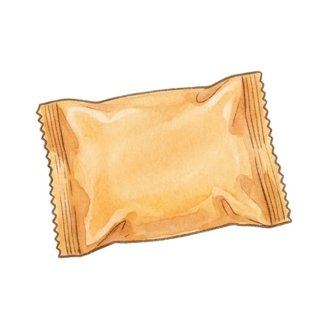
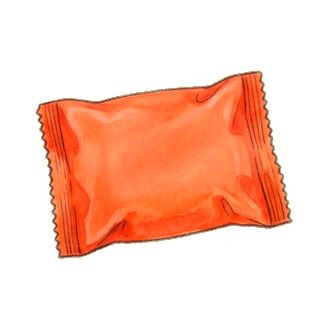
End-of-day word review (day2/review.js): from Day 3, ~5 words (today, ~3 and ~7 days ago, last misses), hear->pick picture / picture->pick word; foundDay+again kept in save; snack bag red

diff --git a/day2/review.js b/day2/review.js
@@ -1,0 +1,74 @@
+// ---------- end-of-day word review (owner 11/06: 「친구는 하루 2명 그대로, 하루 끝에 짧은 복습 게임」) ----------
+// From Day 3 on, after the night notebook and before the day-end card: about 5 words, one per screen, no text —
+// today's new words, a word from about 3 days ago and about 7 days ago, and the words missed in the last review (RV_AGAIN).
+// Two kinds, mixed: 🔊 hear the word → tap its picture (of 4) / see the picture → tap the word (of 4).
+// Right = chime, next. Wrong = buzz, the right one lights up and is heard, the word comes back next time.
+// The day a word was first found is kept in the save (foundDay); words from older saves count as found on Day 2.
+const FDAY={};let RV_AGAIN=[];
+{const _a=FOUND.add.bind(FOUND);FOUND.add=function(k){if(!(k in FDAY))FDAY[k]=DAY;return _a(k)}}
+for(const k of FOUND)if(!(k in FDAY))FDAY[k]=DAY;
+function rvStore(){try{const s=JSON.parse(localStorage.getItem('haru_save')||'null');if(!s)return;const fd={};for(const k of FOUND)if(k in FDAY)fd[k]=FDAY[k];
+ s.foundDay=fd;s.again=RV_AGAIN.slice(0,8);localStorage.setItem('haru_save',JSON.stringify(s))}catch(e){}}
+{const _s=saveDay;saveDay=function(){const r=_s.apply(this,arguments);rvStore();return r}}
+if(typeof saveMid==='function'){const _m=saveMid;saveMid=function(){const r=_m.apply(this,arguments);rvStore();return r}}
+{const _c=contGame;contGame=function(s){const fd=(s&&s.foundDay)||{};for(const k in FDAY)delete FDAY[k];for(const k of FOUND)FDAY[k]=fd[k]!=null?fd[k]:2;
+ RV_AGAIN=((s&&s.again)||[]).slice();return _c.apply(this,arguments)}}
+// people and words a picture can't show clearly stay out
+const RV_SKIP=new Set(['mom','dad','friend','teacher','grandma','name','line','shadow','wall']);
+const rvShuf=a=>{a=a.slice();for(let i=a.length-1;i>0;i--){const j=Math.floor(Math.random()*(i+1));[a[i],a[j]]=[a[j],a[i]]}return a};
+function rvOk(k){return!!(k&&!RV_SKIP.has(k)&&!Object.values(WORDKEY).includes(k)&&!D2IDS.includes(k)&&LANGS[LANG].words[k]&&cardOf(k))}
+function rvWords(){const D=DAY,ks=[...FOUND].filter(rvOk),out=[];const add=k=>{if(k&&rvOk(k)&&!out.includes(k)&&out.length<5)out.push(k)};
+ RV_AGAIN.slice(0,2).forEach(add);
+ const today=rvShuf(ks.filter(k=>FDAY[k]===D));add(today[0]);add(today[1]);
+ for(const ago of [3,7]){const c=ks.filter(k=>FDAY[k]<D&&!out.includes(k));if(!c.length)continue;const d=k=>Math.abs(FDAY[k]-(D-ago)),best=Math.min(...c.map(d));add(rvShuf(c.filter(k=>d(k)===best))[0])}
+ for(const k of today.concat(rvShuf([...TODAY]),ks.slice().sort((a,b)=>(FDAY[b]||0)-(FDAY[a]||0))))add(k);
+ return rvShuf(out)}
+// 3 others: learned words first, never a look-alike, never the same picture or the same written word
+function rvOthers(k){const seen=new Set([cardOf(k)]),sw=new Set([wordOf(k)]),out=[];
+ const ok=q=>q!==k&&rvOk(q)&&!(typeof lookalike==='function'&&lookalike(q,k))&&!seen.has(cardOf(q))&&!sw.has(wordOf(q));
+ for(const q of rvShuf([...FOUND]).concat(rvShuf([...CARDS_HAVE])))if(out.length<3&&ok(q)){out.push(q);seen.add(cardOf(q));sw.add(wordOf(q))}
+ return out}
+{const st=document.createElement('style');st.textContent=`
+#mcard.rvcard{padding:14px 14px 18px}
+.rvtop{display:flex;gap:6px;justify-content:center;margin:0 0 12px}.rvtop i{width:34px;height:10px;border-radius:99px;background:#e8dcc4}.rvtop i.d{background:var(--mint)}.rvtop i.x{background:#e7a08a}
+.rvq{display:flex;justify-content:center;align-items:center;min-height:64px;margin:0 0 12px}
+.rvq .spk{font-size:34px;padding:10px 26px;border-color:var(--mint);box-shadow:0 4px 0 #3f9a7c}
+.rvq img{width:min(200px,52vw);border-radius:18px;border:4px solid var(--line);display:block}
+.rvg{display:grid;grid-template-columns:1fr 1fr;gap:12px;max-width:340px;margin:0 auto}
+.rvg button{font:inherit;background:#fff;border:4px solid var(--line);border-radius:18px;box-shadow:0 5px 0 var(--line);padding:6px;cursor:pointer;color:var(--ink)}
+.rvg button img{width:100%;display:block;border-radius:12px;aspect-ratio:1;object-fit:cover}
+.rvg.w button{font-weight:800;font-size:21px;padding:14px 6px;min-height:64px;word-break:keep-all;overflow-wrap:anywhere}
+.rvg button.ok{border-color:var(--mint);background:#eafff6;box-shadow:0 5px 0 #3f9a7c}
+.rvg button.no{border-color:#e7a08a;animation:shake .4s}
+.rvg button.dim{opacity:.35}
+.rvend{font-size:30px;letter-spacing:2px;white-space:nowrap;margin:6px 0 4px}.rvend b{font-size:22px;letter-spacing:0;color:var(--ink);vertical-align:middle;margin-left:8px}
+.rvmiss{display:flex;gap:8px;justify-content:center;flex-wrap:wrap;margin:8px 0 0}.rvmiss button{background:#fff;border:3px solid var(--line);border-radius:14px;padding:4px;width:72px;cursor:pointer;font:inherit;font-weight:800;font-size:13px;color:var(--ink)}.rvmiss img{width:100%;border-radius:9px;display:block}`;
+ document.head.appendChild(st)}
+// the review itself; done() always runs (a missing picture drops that word, an error ends the review)
+function wordReview(done){let fin=false;const end=()=>{if(fin)return;fin=true;const c=document.getElementById('mcard');c.classList.remove('rvcard');document.getElementById('modal').classList.remove('on');busy=false;done()};
+ try{const ws=rvWords();if(ws.length<2){end();return}
+  const m=document.getElementById('modal'),c=document.getElementById('mcard');busy=true;closeBubble&&closeBubble();setGoal('');
+  const res=[],flip=Math.random()<.5;let i=0;
+  const bar=()=>`<div class="rvtop">${ws.map((_,j)=>`<i class="${j<res.length?(res[j]?'d':'x'):''}"></i>`).join('')}</div>`;
+  const next=()=>{if(i>=ws.length){finish();return}const k=ws[i],hear=(i%2===0)!==flip,os=rvOthers(k);if(os.length<2){i++;res.push(true);next();return}
+   const items=rvShuf([k].concat(os));let lock=false;
+   c.className='card rvcard';c.innerHTML=`<div id="rv" data-k="${k}">${bar()}<div class="rvq">${hear?'<button class="spk" id="rvsnd">🔊</button>':`<img src="${cardOf(k)}" alt="">`}</div>
+    <div class="rvg${hear?'':' w'}">${items.map(q=>`<button data-r="${q}">${hear?`<img src="${cardOf(q)}" alt="">`:wordOf(q)}</button>`).join('')}</div></div>`;
+   m.classList.add('on');
+   const qi=c.querySelector('.rvq img');if(qi)qi.onerror=()=>{if(c.querySelector('#rv')&&c.querySelector('#rv').dataset.k===k&&!lock){lock=true;i++;next()}};
+   c.querySelectorAll('.rvg img').forEach(im=>im.onerror=()=>{const b=im.closest('button');if(b.dataset.r===k){if(!lock){lock=true;i++;next()}}else b.remove()});
+   if(hear){setTimeout(()=>speak(k),350);c.querySelector('#rvsnd').onclick=()=>speak(k)}
+   c.querySelectorAll('.rvg button').forEach(b=>b.onclick=()=>{if(lock)return;lock=true;const ok=b.dataset.r===k,rb=c.querySelector(`.rvg [data-r="${k}"]`);
+    c.querySelectorAll('.rvg button').forEach(x=>{if(x!==b&&x!==rb)x.classList.add('dim')});rb&&rb.classList.add('ok');
+    if(ok){chime();RV_AGAIN=RV_AGAIN.filter(q=>q!==k)}else{buzz();b.classList.add('no');RV_AGAIN=[k].concat(RV_AGAIN.filter(q=>q!==k))}
+    setTimeout(()=>speak(k),ok?150:450);res.push(ok);setTimeout(()=>{i++;next()},ok?1100:1900)})};
+  const finish=()=>{const n=res.filter(Boolean).length,miss=ws.filter((k,j)=>res[j]===false);
+   c.className='card rvcard';c.innerHTML=`<div id="rv">${bar()}<div class="rvend">${res.map(r=>r?'⭐':'☆').join('')}<b>${n}/${res.length}</b></div>
+    ${miss.length?`<div class="rvmiss">${miss.map(k=>`<button data-s="${k}"><img src="${cardOf(k)}" alt="">${wordOf(k)} 🔊</button>`).join('')}</div>`:''}<button class="big" id="rvgo">▶</button></div>`;
+   m.classList.add('on');if(n===res.length)chime();c.querySelectorAll('[data-s]').forEach(b=>b.onclick=()=>speak(b.dataset.s));
+   const go=c.querySelector('#rvgo'),born=performance.now();go.onclick=()=>{if(performance.now()-born<400)return;end()}};
+  next()}catch(e){console.warn('review',e);end()}}
+// after the night notebook, before the day-end card (once per day played)
+const RV_DONE=new Set();
+{const _e2=end2;end2=function(){const a=arguments,self=this;if(DAY>=3&&!RV_DONE.has(DAY)&&!/[?&]norv/.test(location.search)){RV_DONE.add(DAY);wordReview(()=>_e2.apply(self,a));return}return _e2.apply(self,a)}}
+{const _sd=startDay;startDay=function(n){RV_DONE.delete(n);return _sd.apply(this,arguments)}}

diff --git a/index.html b/index.html
@@ -119,14 +119,14 @@ body,button{word-break:keep-all;overflow-wrap:break-word}
 <div id="fader"></div>
 <script>
 // same address, newest version: if the page this phone has kept is older than the one online, fetch the new one and reopen
-const BUILD='1106192712';
+const BUILD='1106192906';
 try{fetch(location.pathname,{cache:'no-store'}).then(r=>r.text()).then(t=>{const m=t.match(/const BUILD='(\d+)'/);if(m&&m[1]!==BUILD&&sessionStorage.getItem('upd')!==m[1]){sessionStorage.setItem('upd',m[1]);fetch(location.pathname,{cache:'reload'}).then(()=>location.reload())}}).catch(()=>{})}catch(e){}
 </script>
-<script src="i18n.js?v=1106192712"></script>
-<script src="i18n_prologue_v2.js?v=1106192712"></script>
-<script src="day2/i18n_engine.js?v=1106192712"></script>
-<script src="day2/data.js?v=1106192712"></script>
-<script src="day3/data.js?v=1106192712"></script>
+<script src="i18n.js?v=1106192906"></script>
+<script src="i18n_prologue_v2.js?v=1106192906"></script>
+<script src="day2/i18n_engine.js?v=1106192906"></script>
+<script src="day2/data.js?v=1106192906"></script>
+<script src="day3/data.js?v=1106192906"></script>
 <script>
 // ---------- data ----------
 const MW=1672,MH=941,KID=180;
@@ -545,32 +545,32 @@ function pickHero(){const m=document.getElementById('modal'),c=document.getEleme
  c.innerHTML=`<h2>${tr('전학생 반장되기')}</h2><p>${tr('한국말이 아직 서툰 전학생,<br>반장 선거에 나가다.')}</p><p style="margin-top:14px">${tr('누구로 할까요?')}</p>${(()=>{const s=loadSave();return s&&s.day>=2&&s.mode===UI+'-'+LANG?`<p><button class="big" id="cont">${tr('{n}일차부터 이어 하기').replace('{n}',s.day)}</button></p>`:''})()}<div class="pick heroes"><button data-h="hero_f"><img src="faces/hero_f_smile.jpg" alt="여자 주인공">${heroName(1)}</button><button data-h="hero_m"><img src="faces/hero_m_smile.jpg" alt="남자 주인공">${heroName(0)}</button></div>`;
  m.classList.add('on');{const cb=document.getElementById('cont');if(cb)cb.onclick=()=>{const s=loadSave();HERO=s.hero;Object.assign(HEART,s.heart||{});(s.found||[]).forEach(k=>FOUND.add(k));HEART_D1={...HEART};chime();(typeof contGame==='function'?contGame(s):startDay(Math.min(s.day,Object.keys(window.D3||{}).length?3:2)))}}c.querySelectorAll('.pick button').forEach(b=>b.onclick=()=>{HERO=b.dataset.h;m.classList.remove('on');chime();bgm('day');load('home_am');say([['nar','','이사 온 다음 날 아침. 아직 풀지 못한 상자들이 쌓여 있다.'],['think','sad','(오늘부터 새 학교야. 여기 말도 아직 서툰데…….)'],['think','smile','({m}한테 인사하고 학교 가야지.)']],morning)})}
 </script>
-<script src="day2/engine.js?v=1106192712"></script>
-<script src="day2/ep_minho.js?v=1106192712"></script>
-<script src="day2/meet.js?v=1106192712"></script>
-<script src="day2/ep_sua.js?v=1106192712"></script>
-<script src="day2/ep_hangyeol.js?v=1106192712"></script>
-<script src="day2/ep_siwoo.js?v=1106192712"></script>
-<script src="day2/ep_haram.js?v=1106192712"></script>
-<script src="day2/ep_jiho.js?v=1106192712"></script>
-<script src="day2/ep_hyeeun.js?v=1106192712"></script>
-<script src="day2/ep_haneul.js?v=1106192712"></script>
-<script src="day2/ep_junho.js?v=1106192712"></script>
-<script src="day2/ep_yuna.js?v=1106192712"></script>
-<script src="day2/ep_yena.js?v=1106192712"></script>
-<script src="day2/ep_haeun.js?v=1106192712"></script>
-<script src="day2/ep_youngmin.js?v=1106192712"></script>
-<script src="day2/ep_seah.js?v=1106192712"></script>
-<script src="day2/ep_jihoon.js?v=1106192712"></script>
-<script src="words_ja_ru.js?v=1106192712"></script>
-<script src="day2/mybag.js?v=1106192712"></script>
-<script src="day2/wordpics.js?v=1106192712"></script>
-<script src="day2/spots.js?v=1106192712"></script>
-<script src="day2/textfit.js?v=1106192712"></script>
-<script src="day2/tester.js?v=1106192712"></script>
-<script src="day2/ux.js?v=1106192712"></script>
-<script src="day2/tapword.js?v=1106192712"></script>
-<script src="day2/review.js?v=1106192712"></script>
+<script src="day2/engine.js?v=1106192906"></script>
+<script src="day2/ep_minho.js?v=1106192906"></script>
+<script src="day2/meet.js?v=1106192906"></script>
+<script src="day2/ep_sua.js?v=1106192906"></script>
+<script src="day2/ep_hangyeol.js?v=1106192906"></script>
+<script src="day2/ep_siwoo.js?v=1106192906"></script>
+<script src="day2/ep_haram.js?v=1106192906"></script>
+<script src="day2/ep_jiho.js?v=1106192906"></script>
+<script src="day2/ep_hyeeun.js?v=1106192906"></script>
+<script src="day2/ep_haneul.js?v=1106192906"></script>
+<script src="day2/ep_junho.js?v=1106192906"></script>
+<script src="day2/ep_yuna.js?v=1106192906"></script>
+<script src="day2/ep_yena.js?v=1106192906"></script>
+<script src="day2/ep_haeun.js?v=1106192906"></script>
+<script src="day2/ep_youngmin.js?v=1106192906"></script>
+<script src="day2/ep_seah.js?v=1106192906"></script>
+<script src="day2/ep_jihoon.js?v=1106192906"></script>
+<script src="words_ja_ru.js?v=1106192906"></script>
+<script src="day2/mybag.js?v=1106192906"></script>
+<script src="day2/wordpics.js?v=1106192906"></script>
+<script src="day2/spots.js?v=1106192906"></script>
+<script src="day2/textfit.js?v=1106192906"></script>
+<script src="day2/tester.js?v=1106192906"></script>
+<script src="day2/ux.js?v=1106192906"></script>
+<script src="day2/tapword.js?v=1106192906"></script>
+<script src="day2/review.js?v=1106192906"></script>
 <script>
 // the goal shows big for a few seconds, then folds into a small pill (tap it to open it again)
 {const g=document.getElementById('goal');let t=null;const big=()=>{g.classList.remove('mini');clearTimeout(t);t=setTimeout(()=>g.classList.add('mini'),4000)};
